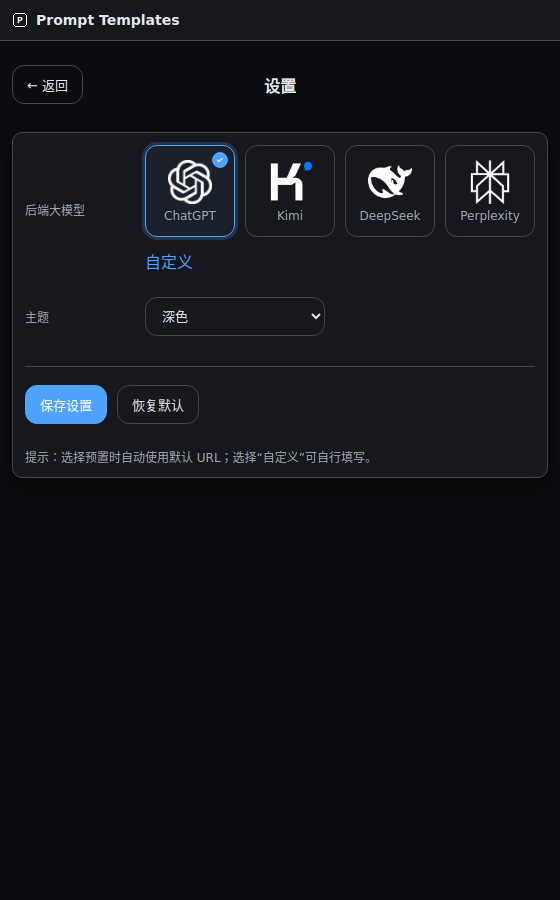
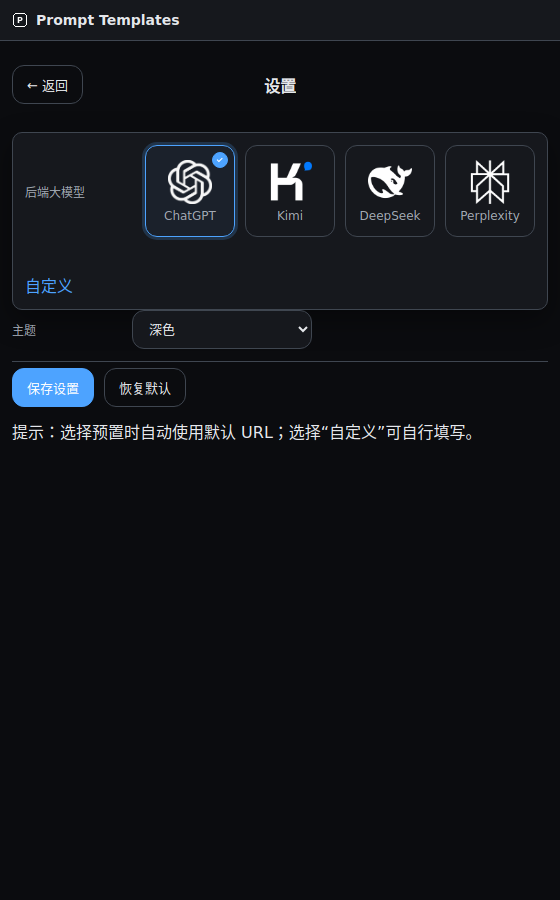
Add custom provider link and tick styling in panel UI

diff --git a/edge-prompt-templates/panel.html b/edge-prompt-templates/panel.html
@@ -119,7 +119,9 @@ input[type="checkbox"]:focus{outline:none;box-shadow:0 0 0 3px var(--accent-soft
 .provider-card .tick svg{width:10px;height:10px;display:block}
 .provider-card.active .tick{display:flex}
 .provider-actions{margin-top:12px;display:flex;justify-content:flex-start}
-  </style>
+.custom-tick{display:none;margin-left:6px;width:16px;height:16px;border-radius:50%;border:1px solid var(--accent);background:var(--accent);align-items:center;justify-content:center}
+.custom-tick svg{width:10px;height:10px;display:block}
+</style>
 </head>
 <body class="panel">
 <header><img src="icons/icon16.png" width="16" height="16" alt=""><h1>Prompt Templates</h1></header>
@@ -208,6 +210,7 @@ input[type="checkbox"]:focus{outline:none;box-shadow:0 0 0 3px var(--accent-soft
             </div>
           </div>
         </div>
+        <div class="provider-actions"><a id="providerCustomLink" class="link">自定义</a><span id="providerCustomTick" class="custom-tick" aria-hidden="true"><svg viewBox="0 0 16 16" xmlns="http://www.w3.org/2000/svg"><path fill="#fff" d="M6.2 11.5L2.7 8l1.1-1.1l2.4 2.4l5-5l1.1 1.1z"/></svg></span></div>
         <div id="customUrlRows" class="">
           <div class="row"><label class="small" for="backendRegular">常规会话 URL</label><input id="backendRegular" class="control" type="text" placeholder="如：https://chatgpt.com"></div>
           <div class="row"><label class="small" for="backendTemporary">临时会话 URL</label><input id="backendTemporary" class="control" type="text" placeholder="如：https://chatgpt.com/?temporary-chat=true"></div>
